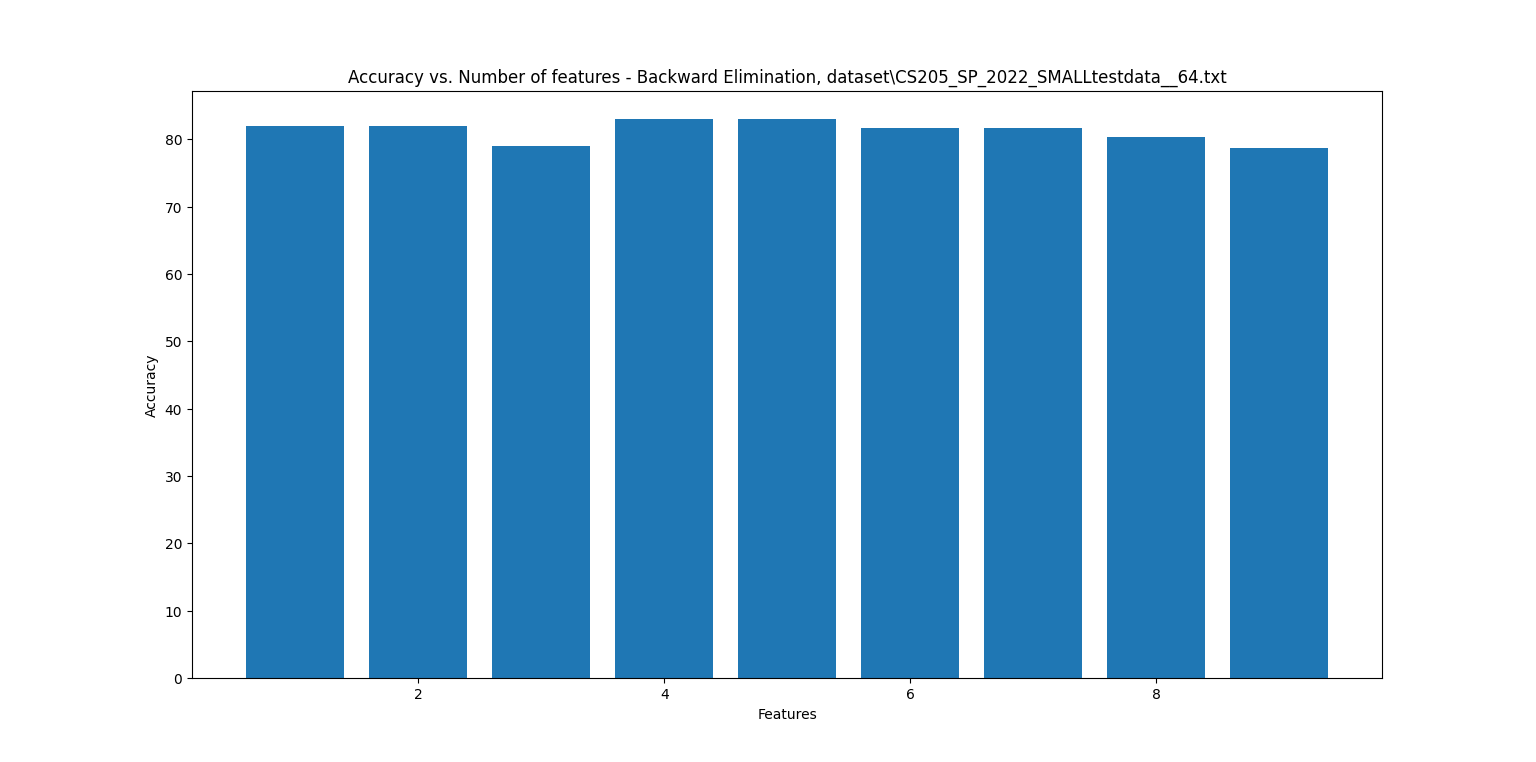
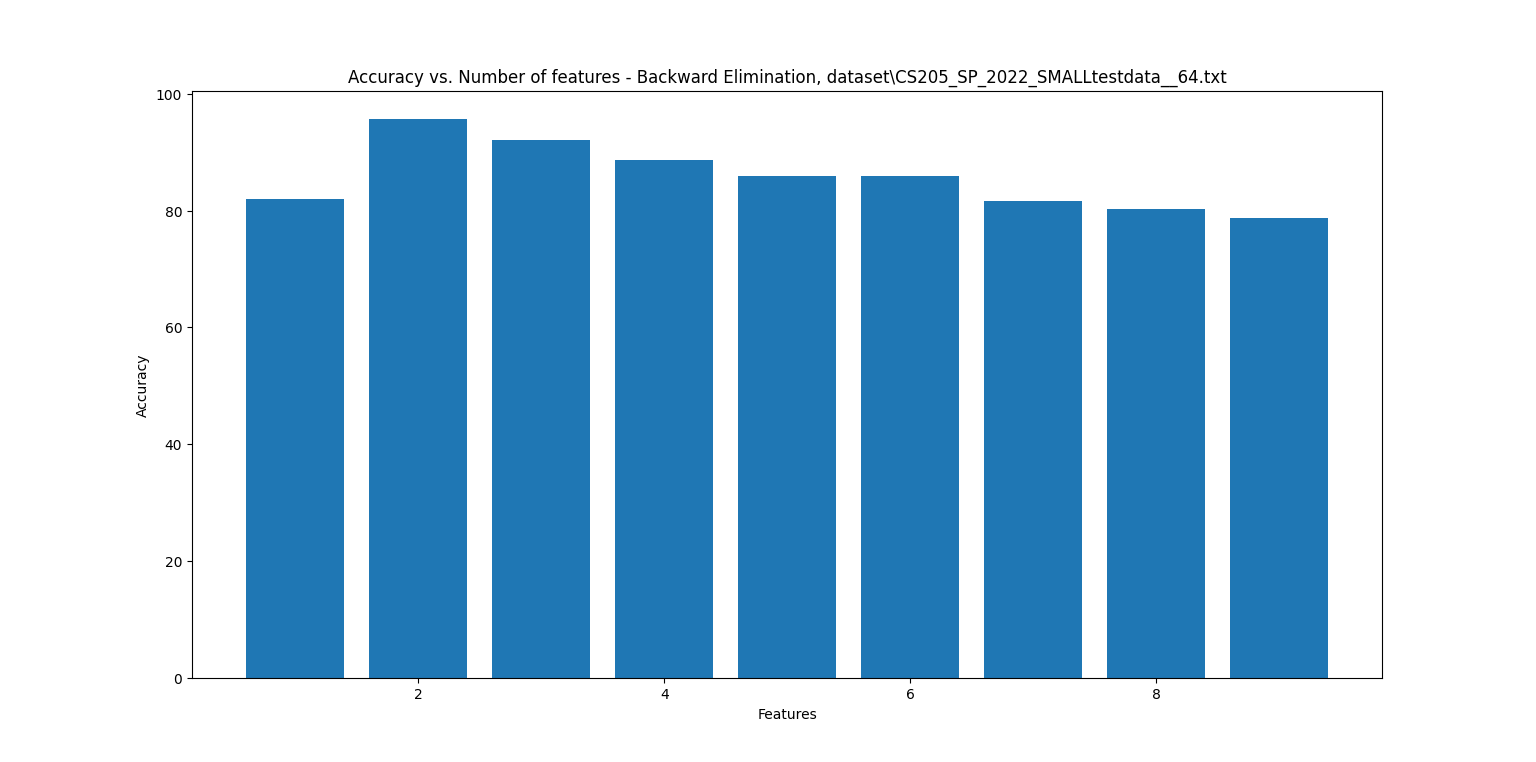
Add comments and update figures.

diff --git a/selection.py b/selection.py
@@ -98,11 +98,6 @@ class Selection(object):
         """
         Use greedy search for figuring out the best possible set of features. Two searches are
         possible. Forward selection and backward elimination. Both searches are greedy in nature.
-
-        FORWARD SELECTION
-
-        BACKWARD ELIMINATION
-
         :return:
         """
 
@@ -138,22 +133,24 @@ class Selection(object):
             for child in children:
                 self.classifier.feature_list = child
                 accuracy = self.classifier.evaluate()
-                if accuracy > current_best_accuracy:
+                if accuracy >= current_best_accuracy:
                     current_best_accuracy = accuracy
                     current_best_features = child
 
                 print("\tUsing feature(s) {0} accuracy is {1:.2f}%.".format(set(child), accuracy * 100))
 
-            if best_accuracy > current_best_accuracy:
+            if best_accuracy >= current_best_accuracy:
                 print("\n(Warning, Accuracy has decreased! Continuing search in case of local maxima)")
             print("\nFeature set {0} was best, accuracy is {1:.2f}%.\n".format(set(current_best_features),
                                                                                current_best_accuracy * 100))
+            # Set the next best set of features for consideration
             feature = current_best_features
 
             accuracies.append(current_best_accuracy)
             features.append(current_best_features)
 
-            if best_accuracy < current_best_accuracy:
+            # Update the global best accuracy
+            if best_accuracy <= current_best_accuracy:
                 best_accuracy = current_best_accuracy
                 best_features = current_best_features
 

diff --git a/main.py b/main.py
@@ -25,8 +25,9 @@ FILE_PATHS = [SMALL_DATASET_PATH, LARGE_DATASET_PATH, CALIBRATION_FILE_1_PATH, C
 
 def get_user_input():
     """
+    Get the input from the user.
 
-    :return:
+    :return: The feature selection algorithm & the file path.
     """
     print("Welcome to Aritra Samanta's Feature Selection Algorithm.")
     f_path = input("Type in the name of the file to test: ")
@@ -41,9 +42,9 @@ def get_data(algorithm, file_path):
     """
     Function to run the algorithm on the file path.
 
-    :param algorithm:
-    :param file_path:
-    :return:
+    :param algorithm: Feature selection algorithm to run.
+    :param file_path: The path to the dataset.
+    :return: List of accuracies and features.
     """
     # Get the dataset from file
     dataset = np.genfromtxt(file_path)
